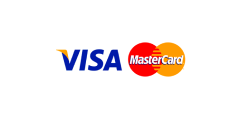
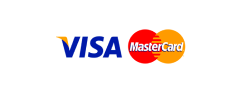
--- Auto-Git Commit ---

Changed region(s): [[0.2333, 0.2812, 0.7875, 0.6875]]

diff --git a/index.html b/index.html
@@ -13,8 +13,8 @@
 <body>
     <!-- font-family: 'Roboto Condensed', sans-serif; -->
     <div class="wrapper">
-        <a href="#" class="logo"><img src="src/img/logo.svg" alt=""></a>
         <div class="wrap-box">
+            <a href="#" class="logo"><img src="src/img/logo.svg" alt=""></a>
             <div class="top-box-wrap">
                 <img src="src/img/img.png" alt="img" class="top-box__product">
                 <div class="top-box">
@@ -31,17 +31,8 @@
             <!-- /.top-box -->
             <div class="bottom-box-wrap">
                 <h2 class="bottom-box__title">Выбирете способ оплаты</h2>
-                <!-- <form action="" method="">
-                    <div class="form-grow">
-                        <label for="yandex" class="card-yandex">
-                            <input type="checkbox" id="yandex">
-                        </label>
-                        <label for="visa" class="card-visa">
-                            <input type="checkbox" id="visa">
-                        </label>
-                    </div>
-                </form> -->
                 <form method="POST" action="https://money.yandex.ru/quickpay/confirm.xml"> 
+                    <div class="grow-form">
                     <input type="hidden" name="receiver" value="41001xxxxxxxxxxxx"> 
                     <input type="hidden" name="formcomment" value="Проект «Железный человек»: реактор холодного ядерного синтеза"> 
                     <input type="hidden" name="short-dest" value="Проект «Железный человек»: реактор холодного ядерного синтеза"> 
@@ -55,8 +46,14 @@
                     <input type="hidden" name="need-phone" value="false"> 
                     <input type="hidden" name="need-address" value="false"> 
                     <label>
-                        <input type="radio" name="paymentType" value="PC">Яндекс.Деньгами</label> 
-                    <label><input type="radio" name="paymentType" value="AC">Банковской картой</label> 
+                        <img src="src/img/payment1.png" alt="payment1">
+                        <input type="radio" name="paymentType" value="PC">
+                    </label> 
+                    <label>
+                        <img src="src/img/payment2.png" alt="payment2">
+                        <input type="radio" name="paymentType" value="AC">
+                    </label>
+                    </div>
                     <input type="submit" value="Продолжить">
                 </form>
             </div>

diff --git a/src/sass/style.sass b/src/sass/style.sass
@@ -19,6 +19,7 @@ body
     height: 100%    
 
 .wrap-box
+    position: relative
     background-color: #fff
     max-width: 1220px
     width: 100%
@@ -60,31 +61,40 @@ body
     font-size: 24px;
     letter-spacing: 0.05em
     margin: 0 0 16px
+    text-align: center
+    max-width: 483px
+
+.logo
+    position: absolute
+    top: -70px
+    left: -80px
 
 .logo img
-    width: 300px
-    height: 92px
-// .card-yandex
-//     background: url(../img/payment1.png) no-repeat
-//     width: 240px
-//     height: 96px
-//     position: relative
+    width: 180px
+    height: 36px
 
-// .card-visa
-//     background: url(../img/payment2.png) no-repeat
-//     width: 240px
-//     height: 119px  
-//     position: relative 
+.grow-form
+    padding-top: 17px
+    border-top: 1px solid #cccccc
 
-// .form-grow
-//     display: flex
-//     align-items: center
+    & label
+        display: inline-block
+        width: 240px  
+        position: relative
 
-//     & input
-//         position: absolute;
-//         top: 80px;
-//         right: 10px;
+.bottom-box-wrap form
+    display: flex
+    flex-wrap: wrap
+    align-items: center 
+    justify-content: space-between 
 
-//     & label:last-child input
-//         top: 92px
-
+input[type="submit"]
+    width: 220px
+    height: 50px
+    text-align: center 
+    font-size: 24px;
+    letter-spacing: 0.05em;
+    color: #ffffff
+    background-color: #13C165
+    border-radius: 70px 
+    border: none          

diff --git a/src/css/style.css b/src/css/style.css
@@ -30,6 +30,7 @@ body {
 }
 
 .wrap-box {
+  position: relative;
   background-color: #fff;
   max-width: 1220px;
   width: 100%;
@@ -86,10 +87,55 @@ body {
   font-size: 24px;
   letter-spacing: 0.05em;
   margin: 0 0 16px;
+  text-align: center;
+  max-width: 483px;
+}
+
+.logo {
+  position: absolute;
+  top: -70px;
+  left: -80px;
 }
 
 .logo img {
-  width: 300px;
-  height: 92px;
+  width: 180px;
+  height: 36px;
+}
+
+.grow-form {
+  padding-top: 17px;
+  border-top: 1px solid #cccccc;
+}
+
+.grow-form label {
+  display: inline-block;
+  width: 240px;
+  position: relative;
+}
+
+.bottom-box-wrap form {
+  display: -webkit-box;
+  display: -ms-flexbox;
+  display: flex;
+  -ms-flex-wrap: wrap;
+      flex-wrap: wrap;
+  -webkit-box-align: center;
+      -ms-flex-align: center;
+          align-items: center;
+  -webkit-box-pack: justify;
+      -ms-flex-pack: justify;
+          justify-content: space-between;
+}
+
+input[type="submit"] {
+  width: 220px;
+  height: 50px;
+  text-align: center;
+  font-size: 24px;
+  letter-spacing: 0.05em;
+  color: #ffffff;
+  background-color: #13C165;
+  border-radius: 70px;
+  border: none;
 }
 /*# sourceMappingURL=style.css.map */
